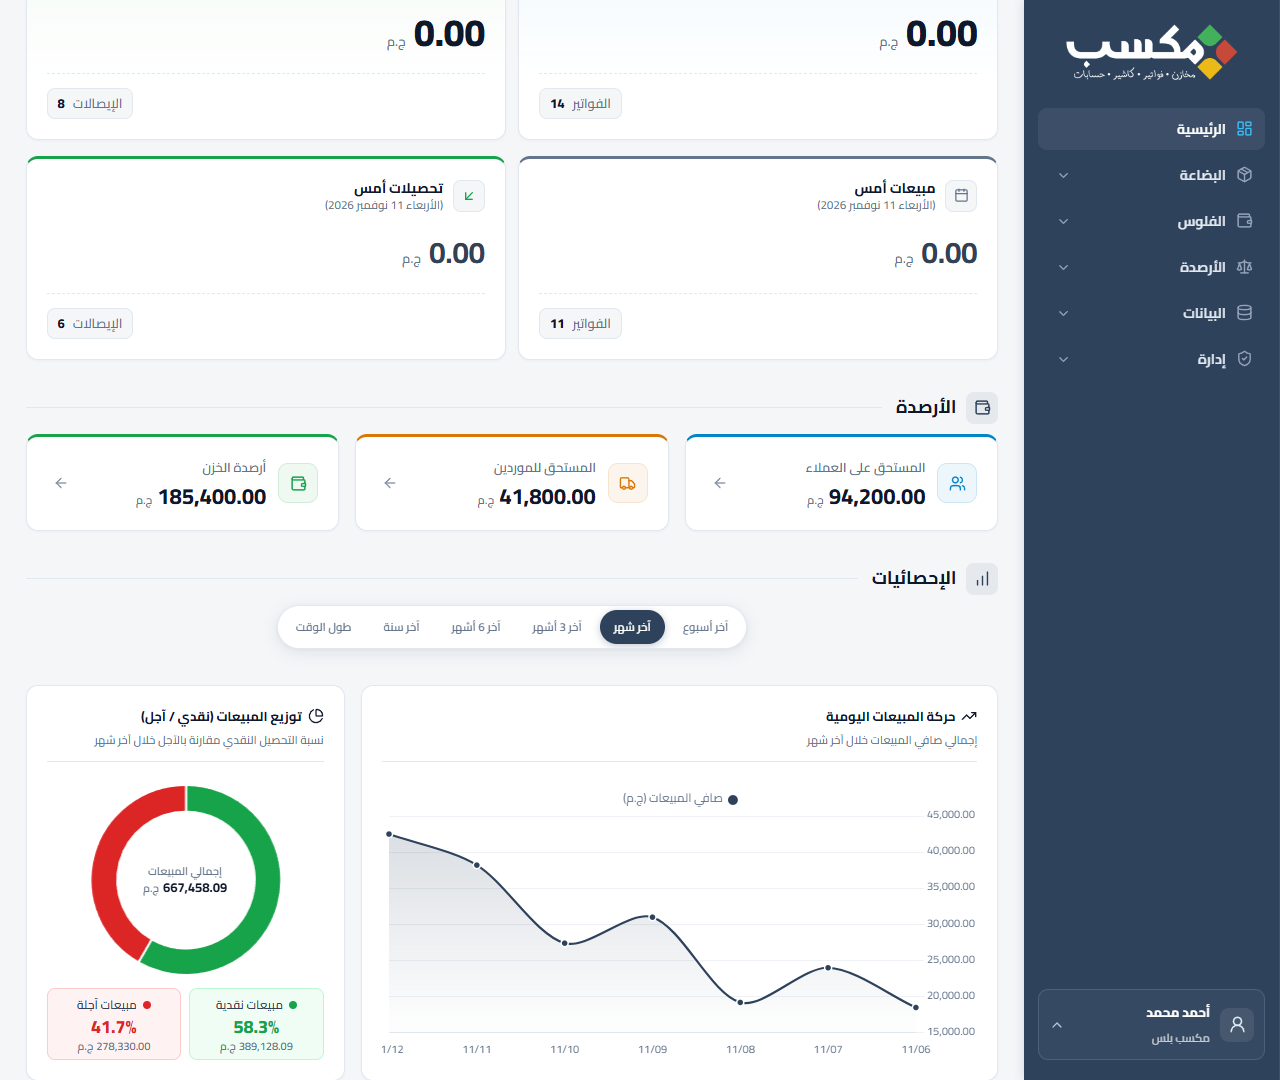
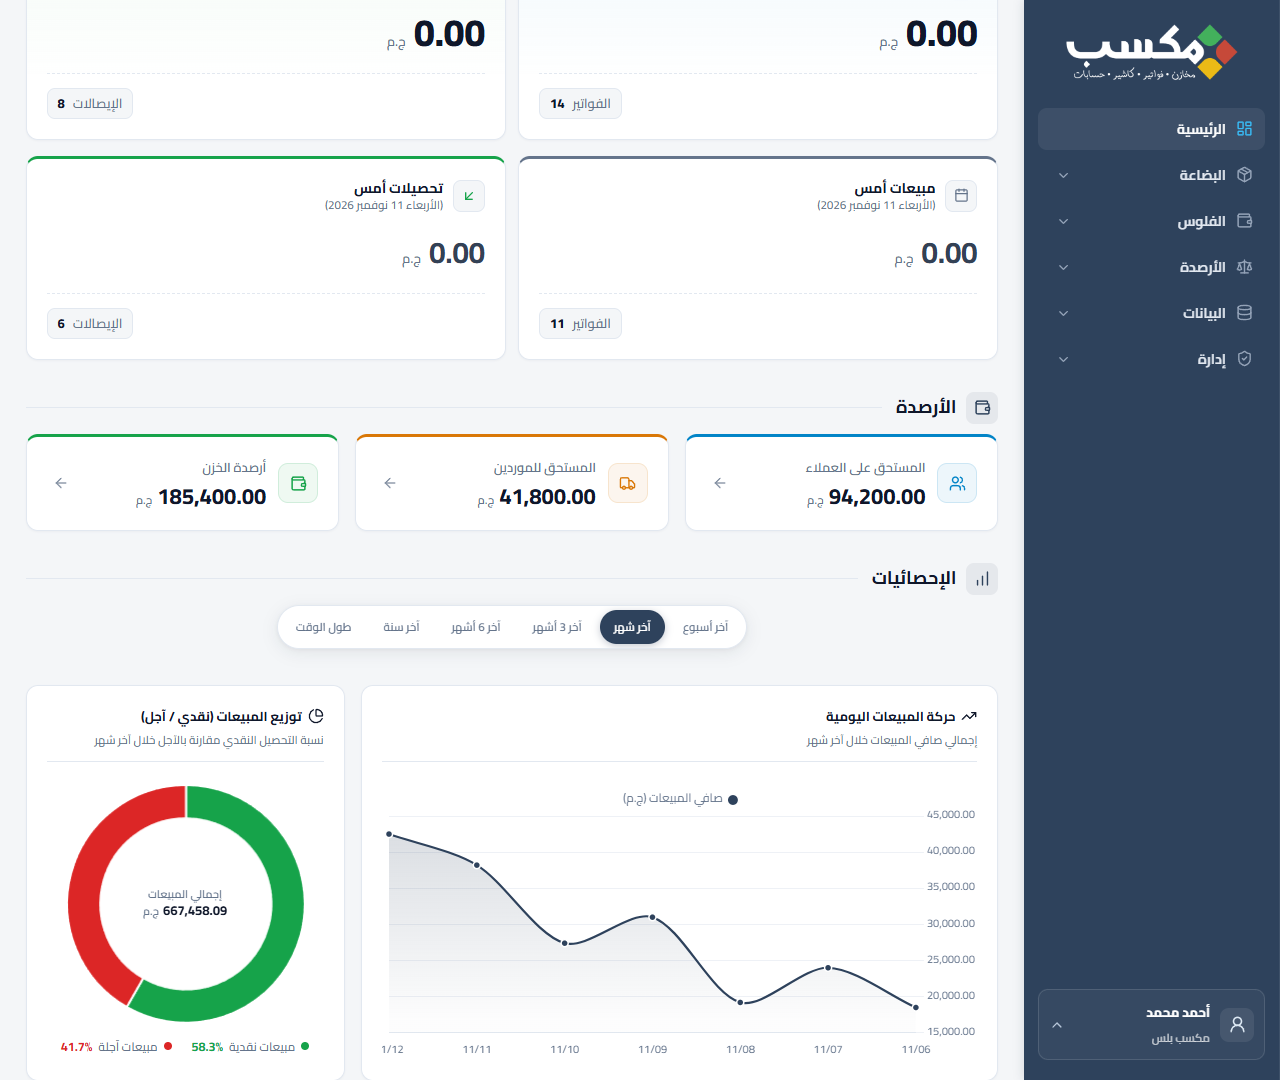
fix(ui): replace distribution indicator cards with calm inline percentage hint

Changed region(s): [[0.0312, 0.7333, 0.25, 0.9778]]

diff --git a/src/components/charts/SalesDistributionChart.tsx b/src/components/charts/SalesDistributionChart.tsx
@@ -146,31 +146,15 @@ export default function SalesDistributionChart({ distribution }: SalesDistributi
 
       <div className="sales-dist-indicators">
         <div className="sales-dist-indicator is-cash">
-          <div className="sales-dist-indicator-head">
-            <span className="sales-dist-dot" aria-hidden="true" />
-            <span className="sales-dist-label">مبيعات نقدية</span>
-          </div>
-          <div className="sales-dist-percent">
-            <bdi dir="ltr" className="tabular-nums">{cashPct}%</bdi>
-          </div>
-          <div className="sales-dist-amount">
-            <bdi dir="ltr" className="tabular-nums">{money(cash)}</bdi>
-            <span>ج.م</span>
-          </div>
+          <span className="sales-dist-dot" aria-hidden="true" />
+          <span className="sales-dist-label">مبيعات نقدية</span>
+          <bdi dir="ltr" className="sales-dist-percent tabular-nums">{cashPct}%</bdi>
         </div>
 
         <div className="sales-dist-indicator is-credit">
-          <div className="sales-dist-indicator-head">
-            <span className="sales-dist-dot" aria-hidden="true" />
-            <span className="sales-dist-label">مبيعات آجلة</span>
-          </div>
-          <div className="sales-dist-percent">
-            <bdi dir="ltr" className="tabular-nums">{creditPct}%</bdi>
-          </div>
-          <div className="sales-dist-amount">
-            <bdi dir="ltr" className="tabular-nums">{money(credit)}</bdi>
-            <span>ج.م</span>
-          </div>
+          <span className="sales-dist-dot" aria-hidden="true" />
+          <span className="sales-dist-label">مبيعات آجلة</span>
+          <bdi dir="ltr" className="sales-dist-percent tabular-nums">{creditPct}%</bdi>
         </div>
       </div>
     </div>

diff --git a/src/styles/pages/home.css b/src/styles/pages/home.css
@@ -829,38 +829,17 @@
 }
 
 .sales-dist-indicators {
-  display: grid;
-  grid-template-columns: repeat(2, minmax(0, 1fr));
-  gap: 8px;
+  display: flex;
+  flex-wrap: wrap;
+  align-items: center;
+  justify-content: center;
+  gap: 6px 20px;
   flex-shrink: 0;
   width: 100%;
+  padding-block: 2px 4px;
 }
 
 .sales-dist-indicator {
-  display: flex;
-  flex-direction: column;
-  align-items: center;
-  justify-content: center;
-  gap: 2px;
-  padding: 6px 8px;
-  border-radius: var(--radius-sm);
-  border: 1px solid var(--line);
-  background: var(--bg);
-  min-width: 0;
-  text-align: center;
-}
-
-.sales-dist-indicator.is-cash {
-  background: var(--success-light);
-  border-color: var(--success-border);
-}
-
-.sales-dist-indicator.is-credit {
-  background: var(--danger-light);
-  border-color: var(--danger-border);
-}
-
-.sales-dist-indicator-head {
   display: inline-flex;
   align-items: center;
   justify-content: center;
@@ -885,14 +864,14 @@
 
 .sales-dist-label {
   font-size: 12px;
-  font-weight: 600;
-  color: var(--ink-secondary);
+  font-weight: 500;
+  color: var(--muted);
   white-space: nowrap;
 }
 
 .sales-dist-percent {
-  font-size: 18px;
-  font-weight: 800;
+  font-size: 12.5px;
+  font-weight: 700;
   line-height: 1.2;
 }
 
@@ -902,17 +881,6 @@
 
 .sales-dist-indicator.is-credit .sales-dist-percent {
   color: var(--danger);
-}
-
-.sales-dist-amount {
-  display: inline-flex;
-  align-items: baseline;
-  justify-content: center;
-  gap: 3px;
-  font-size: 11px;
-  font-weight: 600;
-  color: var(--muted);
-  line-height: 1.2;
 }
 
 @media (max-width: 991px) {
